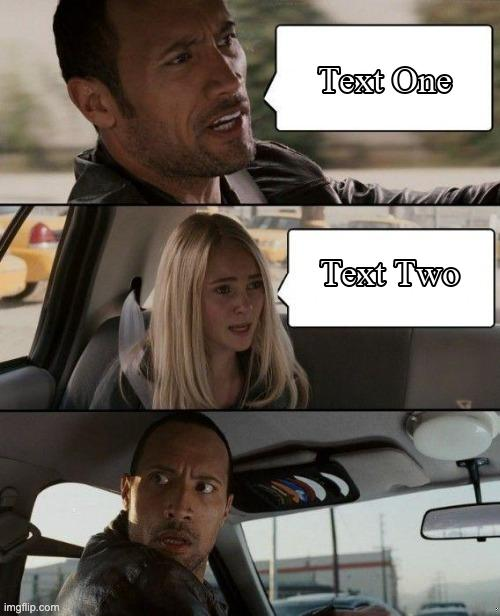
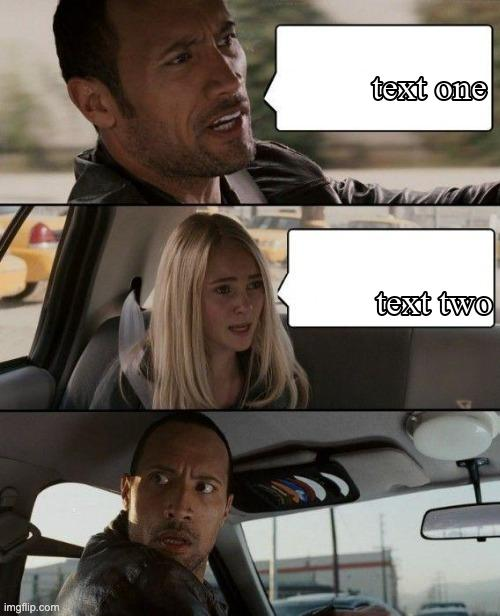
added scaling and more templates

Changed region(s): [[0.63, 0.401, 0.99, 0.5244], [0.63, 0.0925, 0.99, 0.1851], [0.99, 0.987, 1.0, 1.0]]

diff --git a/main.py b/main.py
@@ -1,6 +1,7 @@
 import asyncio
 
 from github import Auth, Github
+import shlex
 from meme_creator import ImageShuffler, ImageGenerator
 from telegram import Update
 from telegram.ext import ApplicationBuilder, CommandHandler, ContextTypes, MessageHandler, filters
@@ -13,7 +14,8 @@ async def hello(update: Update, context: ContextTypes.DEFAULT_TYPE) -> None:
     await update.message.reply_text(f"Alles gute zum Jahrestag❤")
 
 
-async def shuffle(update: Update, context: ContextTypes.DEFAULT_TYPE, shuffler: ImageShuffler, user_shuffle: dict) -> None:
+async def shuffle(update: Update, context: ContextTypes.DEFAULT_TYPE, shuffler: ImageShuffler,
+                  user_shuffle: dict) -> None:
     user_shuffle[update.effective_user.id] = shuffler.shuffle()
     image_path = shuffler.generate_shuffle_image(update.effective_user.id)
 
@@ -23,16 +25,20 @@ async def shuffle(update: Update, context: ContextTypes.DEFAULT_TYPE, shuffler: 
 
 async def select(update: Update, context: ContextTypes.DEFAULT_TYPE, user_shuffle) -> None:
     # Already expect the message (the image already shows how many texts are needed)
-    # TODO: Get message inside " so that the user can use :
+    # Format /A "Text One" Text Two"
     try:
-        msg = update.message.text.split(" ")[1].upper()
-        texts = ' '.join(update.message.text.split(" ")[2:]).split(":")
+        msg = update.message.text[1]
+        texts = shlex.split(update.message.text[2:])
     except:
-        await update.message.reply_text("Your text format was not correct")
+        await update.message.reply_text("Your text format was not correct.\n"
+                                        "Please make sure it follows this formula: \n"
+                                        "First pick the image you want -> /A or /B or /C \n"
+                                        "Then add all the needed texts -> \"Text One\" \" Text Two\""
+                                        "Example: \A \"Hello \" \" World \"")
         return
 
     if msg not in "ABC":
-        await update.message.reply_text("Wrong char, please select A, B or C")
+        await update.message.reply_text("Wrong command, please use /A, /B or /C")
         return
     if update.effective_user.id not in user_shuffle:
         await update.message.reply_text("Not so quick there. You first have to call /shuffle")
@@ -40,10 +46,12 @@ async def select(update: Update, context: ContextTypes.DEFAULT_TYPE, user_shuffl
 
     item = user_shuffle[update.effective_user.id][msg]
     if texts[0] == '' or len(texts) != len(item["text-locations"]):
-        await update.message.reply_text(f"Did not get the right number of texts, please provide exactly {len(item['text-locations'])} : separated texts")
+        await update.message.reply_text(
+            f"Did not get the right number of texts, please provide exactly {len(item['text-locations'])} : separated texts")
         return
 
-    gen = ImageGenerator(item["id"], item["name"], item["text-locations"], item["template-location"], update.effective_user.id)
+    gen = ImageGenerator(item["id"], item["name"], item["text-locations"], item["template-location"],
+                         update.effective_user.id)
 
     image_path = gen.add_all_text(texts)
     with open(image_path, 'rb') as f:
@@ -51,7 +59,6 @@ async def select(update: Update, context: ContextTypes.DEFAULT_TYPE, user_shuffl
 
 
 async def start(update: Update, context: ContextTypes.DEFAULT_TYPE) -> None:
-
     instr = f"""
     Hello {update.effective_user.first_name}👋
     
@@ -72,12 +79,12 @@ if __name__ == '__main__':
 
     user_shuffle = {}  # key: username, value: current shuffle
 
-    shuffler = ImageShuffler()
+    shuffler = ImageShuffler()  # Every uses uses the same shuffler
 
     app.add_handler(CommandHandler("shuffle", lambda x, y: shuffle(x, y, shuffler, user_shuffle)))
-    app.add_handler(CommandHandler("select", lambda x, y: select(x, y, user_shuffle)))
-    app.add_handler(CommandHandler("pick", lambda x, y: select(x, y, user_shuffle)))
-    app.add_handler(CommandHandler("start", start))
+    app.add_handler(CommandHandler("A", lambda x, y: select(x, y, user_shuffle)))
+    app.add_handler(CommandHandler("B", lambda x, y: select(x, y, user_shuffle)))
+    app.add_handler(CommandHandler("C", lambda x, y: select(x, y, user_shuffle)))
     app.add_handler(CommandHandler("sara", hello))
     app.add_handler(MessageHandler(filters.COMMAND, unknown))
 

diff --git a/meme_creator.py b/meme_creator.py
@@ -1,3 +1,4 @@
+import copy
 import json
 import os.path
 import random
@@ -19,18 +20,19 @@ class ImageShuffler:
         self.num_items = len(self.items)
 
         self.options = ["A", "B", "C"]
-        self.cur_rotation = {}  # key: "A", "B", "C", value: (template_id, template_name, template_location
+        # self.cur_rotation = {}  # key: "A", "B", "C", value: (template_id, template_name, template_location
 
     def shuffle(self) -> dict[str, typing.Any]:
         """
         :return 3 image paths with their associated id, name and template_location
         """
+        res = {}
         temp_ids = random.Random().sample(population=range(0, self.num_items), k=3)
 
         for ind, temp_id in enumerate(temp_ids):
-            self.cur_rotation[self.options[ind]] = self.items[temp_id]
+            res[self.options[ind]] = self.items[temp_id]
 
-        return self.cur_rotation
+        return res
 
     def _images_in_row(self, images: list[Image]) -> bool:
         votes = 0
@@ -63,20 +65,21 @@ class ImageShuffler:
         }
 
     def _scale_images(self, images: list[Image], image_coordinates: list[tuple],
-                      in_row: bool, max_height: int, max_width: int) -> dict:
+                      in_row: bool, max_height: int, max_width: int):
         """
         :param images: List of images
         :param image_coordinates: List of image coordinates and text coordinates
         :param in_row: Are images in a row or column
         :param max_height: Biggest image height
         :param max_width: Biggest image width
-        :return: None
+        :return: Scaled image coordinates
         Updates the attribute self.cur_rotation
         """
         # Resize the image
         # In row => Set height
         # In column => Set width
         # Cur x coordinate = prev width * prev scale_ratio
+
         prev_scale_ratio = [1] * (len(self.options) + 1)
         for i in range(0, len(self.options)):
             img = images[i]
@@ -112,17 +115,17 @@ class ImageShuffler:
 
                 ctr += 1
 
-    def generate_shuffle_image(self, user_id) -> str:
+    def generate_shuffle_image(self, user_id, cur_rotation) -> str:
         """
         From the 3 selected shuffle images, create one compositon
         where the letter "A"/"B"/"C" is added
         :return: Path to generated shuffle image
 
         """
-        assert len(self.cur_rotation) != 0, "Call shuffle first to generate the images"
+        assert len(cur_rotation) != 0, "Call shuffle first to generate the images"
         images = []
         for opt in self.options:
-            images.append(Image.open(os.path.join(self.TEMPLATE_DIR, self.cur_rotation[opt]["template-location"])))
+            images.append(Image.open(os.path.join(self.TEMPLATE_DIR, cur_rotation[opt]["template-location"])))
 
         # If more images have a higher width than height, then stitch in column
         # Neg => In column
@@ -131,6 +134,8 @@ class ImageShuffler:
 
         # Determine the width and height of the stitched image
         max_width, max_height, image_coordinates = self._determine_dimensions(images, in_row).values()
+
+        cur_rotation_unscaled = copy.deepcopy(cur_rotation.copy())
 
         self._scale_images(images, image_coordinates, in_row, max_height, max_width)
 
@@ -183,6 +188,9 @@ class ImageShuffler:
         # Close all images
         for img in images:
             img.close()
+
+        # Reset the image sizes
+        self.cur_rotation = cur_rotation_unscaled
 
         return image_path
 
@@ -290,8 +298,10 @@ if __name__ == '__main__':
     shuffler = ImageShuffler()
     rotation = shuffler.shuffle()  # can generate a Gen from the date returned from here to avoid
 
-
-    #gen = ImageGenerator.factory("2", "flohop")
-    # gen.add_all_text(["A", "B", "C", "D"])
+    #gen = ImageGenerator.factory("9", "flohop")
+    #gen.add_all_text(["One", "Two"])
 
     print(shuffler.generate_shuffle_image("flohop"))
+    item = shuffler.cur_rotation["C"]
+    gen = ImageGenerator(item["id"], item["name"], item["text-locations"], item["template-location"], "flohop")
+    print(gen.add_all_text(["Text One", "Text Two"]))
